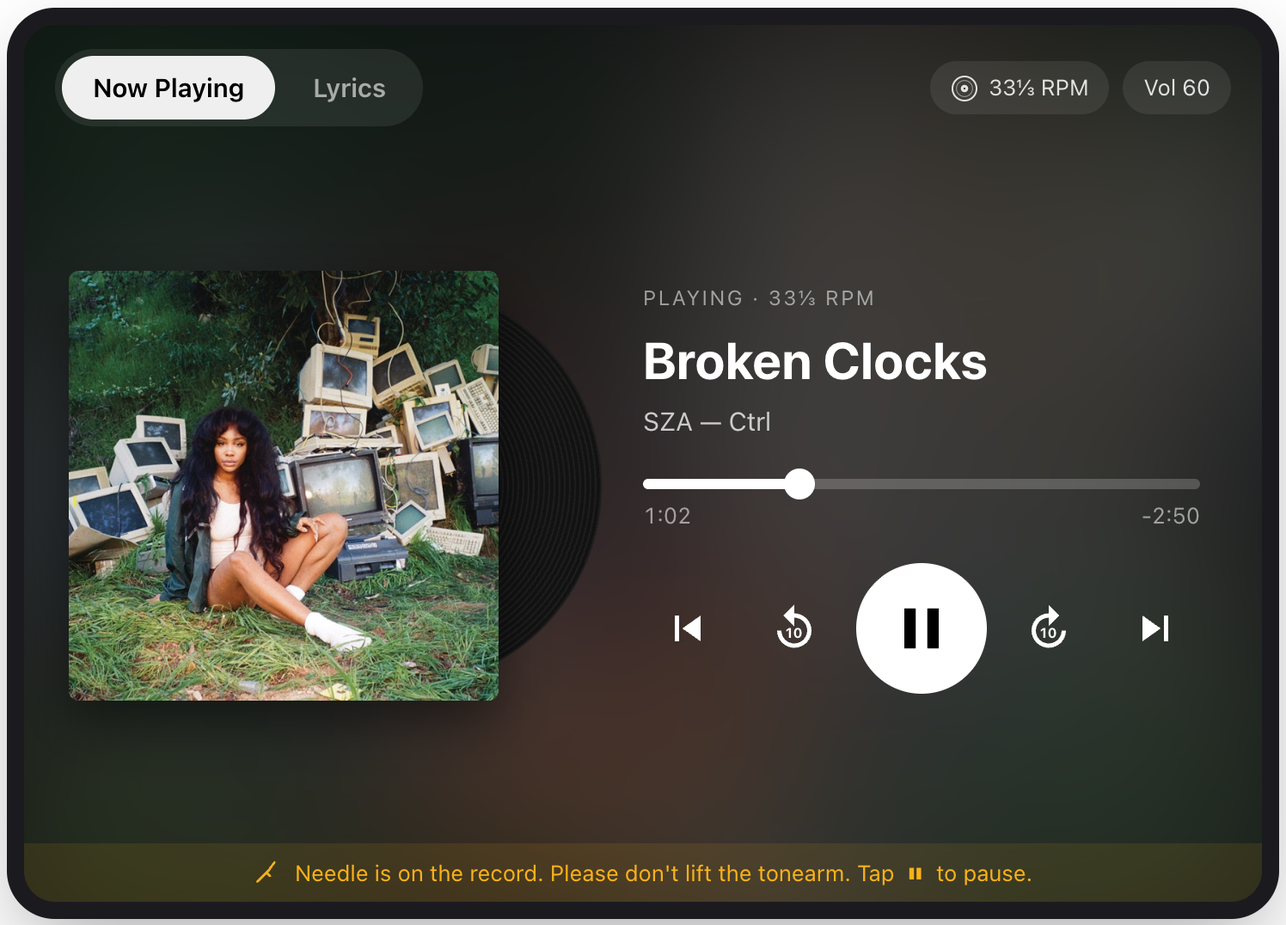
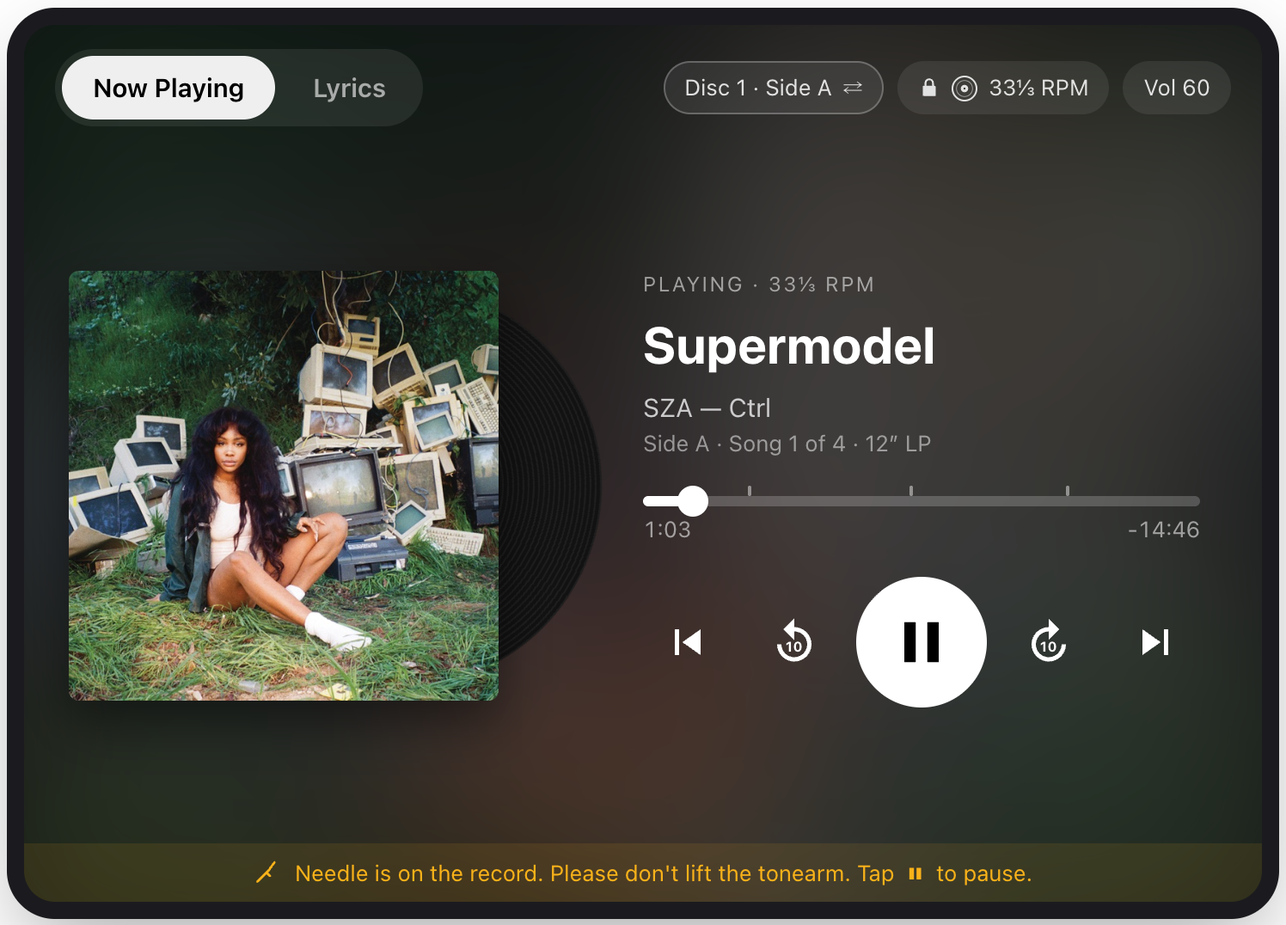
Update README and index files; add images for Smart Vinyl Player project

diff --git a/smart-vinyl-player/index.md b/smart-vinyl-player/index.md
@@ -1,7 +1,3 @@
----
-title: Smart Vinyl Player
----
-
 # Smart Vinyl Player
 
 **Sai Porumamilla** · User Interface I, Project 1
@@ -14,7 +10,7 @@ title: Smart Vinyl Player
 
 A record player that keeps everything people love about vinyl, the physical record, the platter and the needle, while adding a digital display and sensors. A touchscreen faces forward on the front of the player, below the turntable and between the left and right speakers. Two physical knobs sit on top at the front right corner: one for volume and one for the playback mode (33⅓ RPM, 45 RPM or Bluetooth).
 
-Sensors inside the player watch its own health: belt and platter speed, stylus cleanliness, air quality, vibration, audio clipping and tonearm level. They also recognize which song is playing. A companion phone app shows that health and turns the detected plays into a library and listening stats.
+Sensors inside the player watch its own health: belt and platter speed, stylus cleanliness, air quality, vibration, audio clipping and tonearm level. They also recognize which song is playing and the size of the disc on the platter. A companion phone app shows that health, turns the detected plays into a library and listening stats, and works as a remote for the player.
 
 The mock-up has two interfaces, chosen from one master page:
 
@@ -36,7 +32,7 @@ Both interfaces are fixed at a **1.41 : 1** ratio, the ISO A-series paper ratio 
 These are the sensing features the interface assumes. They should be feasible, but how they would be built is out of scope.
 
 | Sensor | What it detects | How the UI uses it |
-|---|---|---|
+| --- | --- | --- |
 | Platter speed sensor | Whether the platter is turning and how far it is from 33⅓ or 45 RPM | Belt & platter speed card in the app |
 | Stylus sensor | Debris build-up, tracked as hours played since the last cleaning | Stylus cleanliness card and stylus lifetime bar |
 | Air quality sensor (PM2.5) on the side of the player | Whether the room is dusty | Air quality card, with a tip to keep the lid closed |
@@ -45,29 +41,58 @@ These are the sensing features the interface assumes. They should be feasible, b
 | Tonearm level sensor | Whether the arm is parallel to the record | Tonearm level card |
 | Tonearm proximity sensor | A hand reaching for the arm while the needle is down | Hands-off warning on the display |
 | Song recognition | Which song and record are playing | Now Playing info and the app's listening history |
-| Knob encoders | Volume and mode knob positions | Volume meter and mode overlays on the display |
+| Knob encoders | Volume and mode knob positions. The volume knob is an endless encoder with an LED ring, so the phone can change the volume too | Volume meter and mode overlays on the display |
+| Disc size sensor on the platter | Whether the record is a 12″ LP or a 7″ single, which tells the speed it needs (33⅓ or 45 RPM) | The disc size on Now Playing, and the wrong-speed warning |
+| Speed knob lock | A latch that stops the mode knob from turning while the needle is on the record | The lock signifier and the "Speed locked" message |
 
 ### User needs and design requirements
 
-> **TODO (Sai):** Check these against your interviews and add or adjust as needed.
+These come from the three interviews below (P1–P3 = participants 1–3). The **Built** column shows whether the mock-up already meets each requirement.
 
-| User need | Design requirement |
-|---|---|
-| Control playback without handling the tonearm and risking the record | The display offers play/pause, previous/next and scrubbing, and warns the user away from the arm while the needle is down |
-| Know what is playing from across the room | When left alone, the display fades to large album art with the song, artist and album |
-| Sing along | The display shows time-synced lyrics |
-| Get clear feedback when turning a physical knob | The display shows the new volume on an arched meter, or the new mode's name and symbol |
-| Know when the player needs care before sound quality suffers | The app gives one overall health rating plus a card per sensor, with a fix for anything Fair or Poor |
-| Show off the collection, including special editions | The app has a collection view with vinyl colors and a filter for special editions |
-| See listening habits | The app shows a day-by-hour heatmap, top artists and totals, built from automatically detected plays |
+| User need | Heard from | Design requirement | Built |
+| --- | --- | --- | --- |
+| Pause, stop or skip without lifting the needle by hand and risking a scratch | P1, P2, P3 | The display offers play/pause and previous/next, and warns the user away from the tonearm while the needle is down | Yes |
+| Find a specific song without placing the needle by hand | P2, P3 | Next/previous, scrubbing and tapping a lyric all cue the automatic tonearm, which shows the arm moving to the matching groove | Yes |
+| Know how far into the side the record is without opening the lid | P1, P2, P3 | The display shows "Side A · Song 2 of 4" and a scrub bar spanning the side, with marks between songs | Yes |
+| See what's playing from across the room | P1, P2, P3 | A front-facing screen that, when left alone, fades to large album art with the song, artist and album | Yes |
+| Follow along with lyrics, as on Spotify or Apple Music | P1, P2, P3 | The display shows time-synced lyrics, and tapping a line skips to it | Yes, line by line. Word-by-word timing is future work |
+| Know when to flip the record or change discs | P3 | When a side ends, the display says whether to flip or swap discs, lists every side with its songs and length, and offers other albums | Yes |
+| Get feedback when turning a knob; today they can only tell by ear, and one participant's volume switch faces the wall | P1, P2, P3 | The display shows the new volume on an arched meter, or the new mode's name and symbol | Yes |
+| Avoid playing a record at the wrong speed | P3 | The speed knob locks while a record plays. The player senses the disc's size, and won't drop the needle if the knob doesn't match | Yes |
+| Notice problems before they're visible or audible; today they look for a crooked needle or a platter that won't spin, then search Reddit or Google | P1, P2, P3 | Sensors feed one overall health rating plus a card per sensor, with a specific fix for anything Fair or Poor | Yes |
+| Be alerted where they'll see it; P1 wants it on the player, P2 and P3 on their phone | P1, P2, P3 | Send alerts to both. Side-end prompts already appear on both; health alerts are only in the app so far | Partly |
+| Show off the collection and the records they're proud of | P2, P3 | A collection view with vinyl colors, a record count and a filter for special editions | Yes |
+| See the next song while one is playing | P2 | The app's Now Playing sheet shows what's up next, or that the side is about to end | Yes |
+| See Wrapped-style listening stats for records | P1, P2, P3 | Listening hours, songs spun, a day-by-hour heatmap and top artists, built from automatically detected plays | Yes |
+| See most-played records by month, and skipped songs | P1, P3 | Monthly top-records view and skip tracking | Not yet |
+| Share stats and play time with friends | P2 | Share a stats card from the app | Not yet |
 
 ### Interviews
 
-> **TODO (Sai):** The 3 interviews: your questions, who you talked to (no identifying details), what you learned, and how it changed the design. Add photos or video of them using a record player if you have them.
+I interviewed three people outside the class, for about 15–20 minutes each. The questions covered five themes: how they listen to music, how they use a record player, controls and feedback, care and maintenance, and their collection and listening stats. At the end I described my design concepts and asked for reactions, so the concepts couldn't bias their earlier answers. All participants are anonymized. [Full interview notes](https://github.com/sai-porumamilla/UI-Project_1/blob/main/interview.md).
+
+| Participant | Experience with record players |
+| --- | --- |
+| **P1** | Has never owned one. Drawn to the look and to collecting favorite artists, put off by the cost. Uses Spotify and plays orchestral music |
+| **P2** | Has used one once, at their brother's. Listens with headphones or in the car on Apple Music |
+| **P3** | Owner with a 78-album collection and a Sony automatic turntable connected to a soundbar |
+
+**What I learned, and how it shaped the design:**
+
+- **Everyone stops or skips by lifting the needle by hand.** P1 worries about scratches because records are expensive. P2 found it hard to place the needle on a specific song. P3 drags the needle past songs when desperate. This confirmed the core idea: play/pause and skip on the screen, the hands-off tonearm warning, and an automatic tonearm that moves to the right groove when you scrub, skip or tap a lyric.
+- **Nobody can easily tell where they are on a side.** P1 relies on knowing the song order, P2 reads it from the groove, and P3 has to open the lid. This led to "Side A · Song 2 of 4" and a scrub bar that spans the side, with marks between songs.
+- **Knobs give no feedback except sound.** All three tell whether volume or speed changed by listening, and P3's volume switch faces the wall. This supports the on-screen volume meter and mode overlay. P3 also pointed out that nothing stops you from playing a 33⅓ record at 45. That led to the speed lock and disc-size detection described under *Physical knobs*.
+- **They expect the screen on the front.** P1 said on the rim, facing forward into the room; P2 said the bottom half, angled outward; and P3 said toward the front. This matches the front-facing display between the speakers.
+- **Everyone already uses synced lyrics.** P2 described Apple Music's word-for-word sync, and the one change P3 would make to record players is being able to skip by tapping the lyrics. Both are in the design: tapping a line seeks to it, and word-level timing is future work.
+- **Problems are noticed late.** Participants only notice trouble from visible signs (a crooked needle, a platter that doesn't spin) or skipping, then search Reddit or Google. The health screen's per-sensor fixes answer this directly.
+- **They disagree on where alerts belong.** P1 doesn't want another app; P2 and P3 prefer their phone because the player's screen is small. The design sends side-end prompts to both, and extending this to health alerts is next.
+- **Stats matter to everyone.** All three enjoy Wrapped-style stats and want them for records: minutes, top artists and albums, totals (P2, P3), most-played record each month and skipped songs (P1), and sharing with friends (P2). The Insights tab covers the basics; the rest is in future work.
+- **Reactions to the concepts were positive.** P3 called them "pretty good," P1 asked for a small decibel readout, and P2 wanted to share stats with friends.
 
 ### Sketches
 
 > **TODO (Sai):** Add images and short captions for:
+>
 > - 10-plus-10 sketches for 3 design challenges
 > - The vanilla sketch of the interface
 > - Storyboard
@@ -87,20 +112,39 @@ A switch at the top chooses **Player display**, **Companion app** or **Side by s
 
 ![Side-by-side view, with the testing panel underneath](images/side-by-side.png)
 
-**Testing UI controls**
+#### Testing UI controls
 
 | Control | What it simulates |
-|---|---|
+| --- | --- |
 | Volume knob slider | Turning the physical volume knob |
 | Mode knob (33⅓ RPM / 45 RPM / Bluetooth) | Turning the physical mode knob |
 | Reach for tonearm | A hand near the tonearm while a song plays |
-| Owner profile (Maya, Jordan, Sam, Pat) | Loads a different owner's sensor readings, collection and listening history into the app |
+| Skip to end of side | Jumps to the last few seconds of the side, to demo the flip / swap-disc prompt without waiting |
+| Owner profile (Audiophile collector, College dorm, First turntable, Inherited player) | Loads a different owner's sensor readings, collection and listening history into the app |
 
 ### Player display
 
-**Now Playing.** Play/pause, previous/next, ±10-second skips and a scrub bar. A record peeks out behind the album art and spins at the selected speed, so 45 RPM visibly spins faster than 33⅓.
+**Now Playing.** Play/pause, previous/next, ±10-second skips and a scrub bar, with the song, artist, album and where you are on the record (for example "Side A · Song 1 of 4 · 12″ LP"). A record peeks out behind the album art and spins at the selected speed, so 45 RPM visibly spins faster than 33⅓.
 
 ![Now Playing on the player display](images/display-playback.png)
+
+**Scrubbing moves the needle.** On a turntable, a point in a song is a physical place on the record, so seeking works the way a real automatic tonearm would. Dragging the scrub bar, tapping ±10 seconds or tapping a lyric lifts the needle, swings the arm to the groove for that moment and lowers it again, then playback resumes. While this happens, a top-down view of the platter replaces the album art. The arm's shadow moves away from it as it lifts, a ring in the album's color marks the groove where it will land, and the target time is shown. Pausing mid-move leaves the arm up. In Bluetooth mode there's no needle, so seeking is instant.
+
+![Cueing the tonearm while scrubbing](images/display-cueing.png)
+
+**Sides, flipping and swapping records.** The display treats a record the way it physically is: as sides. The scrub bar spans only the side that's face up, with small marks at the gaps between songs, and a chip in the header shows the current disc and side (for example "Disc 1 · Side A"). When the needle reaches the end of a side, it returns to rest and the display tells you what to do next:
+
+- **Flip the record:** the next side is on the same disc, like Side A to Side B.
+- **Swap in Disc 2:** the next side is on the other disc of a double album, like Side B to Side C.
+- **Start again or put on a new album:** after the last side.
+
+Every side of the record and every other album is offered, with the suggested next step highlighted. Choosing one shows the physical step (the disc flipping over, or one disc going back in its sleeve and the next coming in), then "✓ Detected" with the new side and artwork, and then the needle drops and playback starts. The phone shows the same choices at the same time (see *End of a side, on the phone*). Tapping the side chip opens the same choices at any point. In Bluetooth mode, music streams straight through from one side to the next.
+
+The sample records are SZA's *Ctrl* (two discs, Sides A–D) and Steve Lacy's *The Lo-Fis* (one disc, Sides A–B).
+
+| Side over | Flipping the record | New album detected |
+| --- | --- | --- |
+| ![Side picker](images/display-side-over.png) | ![Flip animation](images/display-flip.png) | ![New album detected](images/display-new-album.png) |
 
 **Idle mode.** If nobody touches the Now Playing screen for 8 seconds, it fades to large album art with the song, artist and album names, readable from across the room. One tap brings the controls back.
 
@@ -111,51 +155,83 @@ A switch at the top chooses **Player display**, **Companion app** or **Side by s
 ![Synced lyrics](images/display-lyrics.png)
 
 **Hands off the tonearm.** Lifting the needle mid-song can scratch the record, so the display steers people to a safer action:
+
 - **Signifier:** while the needle is down, a strip along the bottom says not to lift the arm and to tap pause instead.
 - **Feedback:** if the proximity sensor detects a hand near the arm, a full-screen warning appears with a large, pulsing pause button. Pausing dismisses it.
 
 ![Tonearm warning](images/display-needle-warning.png)
 
 **Physical knobs.** The display reacts whenever either knob turns:
+
 - **Volume knob:** an arched panel meter with the new value. The arc turns orange above 85.
 - **Mode knob:** the mode's name and symbol. 33⅓ RPM is an LP disc, 45 RPM is a disc with the wide single-record centre, and Bluetooth uses the standard Bluetooth symbol.
 
 | Volume knob | Mode knob |
-|---|---|
+| --- | --- |
 | ![Volume meter](images/display-volume.png) | ![Mode overlay](images/display-mode.png) |
+
+**Speed lock (from interview feedback).** P3 pointed out that you can switch a record to the wrong speed, so the player now guards against it:
+
+- **Locked while playing.** While the needle is on the record, the mode knob locks. The speed chip shows a lock, and the testing panel shows the other positions locked. Turning the knob anyway brings up "Speed locked" with a Pause button, because pausing is what unlocks it.
+- **Speed from disc size.** A sensor on the platter tells a 12″ LP (33⅓ RPM) from a 7″ single (45 RPM). Now Playing shows the size, for example "12″ LP", and the "Detected" screen says which speed the record plays at.
+- **Wrong speed blocked.** If the record is paused and the knob is turned to a speed that doesn't match the disc, the speed chip turns amber and reads "Set speed to 33⅓ RPM". Pressing Play won't drop the needle. Instead, the display explains that this is a 12″ LP and which way to turn the knob. The same check runs after a new record is put on.
+
+| Locked while playing | Wrong speed for this disc | What the speed chip shows |
+| --- | --- | --- |
+| ![Speed locked](images/display-speed-locked.png) | ![Wrong speed](images/display-wrong-speed.png) | ![Amber speed chip](images/display-wrong-speed-chip.png) |
 
 ### Companion app
 
-A mini player at the top controls the same player as the touchscreen. The header shows the connection and the current knob settings.
+A mini player at the top controls the same player as the touchscreen, with previous, play/pause and next. The header shows the connection and the current knob settings.
+
+**Now Playing sheet.** Tapping the mini player's artwork or title slides up a full Now Playing view. It shows large artwork, the song, artist and album, the side and song number, the disc size and speed, and a scrubber for the current song. It also has previous, play/pause and next, the same volume controls, and what's up next. On the last song of a side, "up next" becomes a reminder to flip the record or swap discs, which answers P2's wish to see the next song while one is playing. The chevron at the top, or Escape, closes it.
+
+![Now Playing sheet in the app](images/phone-now-playing.png)
+
+**Scrubbing from the phone.** Dragging the song scrubber in the sheet works like the one on the display: it moves the real tonearm. When you press, the needle lifts; as you drag, the arm follows; when you let go, it drops at that point in the song. The phone shows "Moving the needle…" while the player's screen shows the arm swinging to the new groove. In Bluetooth mode the scrubber seeks instantly.
+
+![Scrubbing on the phone moves the player's tonearm](images/phone-scrub-sync.png)
+
+**End of a side, on the phone.** When the needle reaches the end of a side, the phone shows the same choices as the player's screen. The heading says what to do ("Side A is over. Flip the record to Side B"), every side is listed as Flip, Swap disc or Play again with the next one highlighted, and other albums are offered. Choosing on the phone does exactly what choosing on the player does. Both screens walk through the step (the disc flipping over, or one disc going back in its sleeve and the next coming in), both show "✓ Detected", and the needle drops. "Not now" closes the choices on both screens. The phone then keeps a tappable "Side A is over" notice, and the side chip on the Now Playing sheet opens the same choices at any time.
+
+| Side over on the phone | New album detected on both |
+| --- | --- |
+| ![Side picker on the phone](images/phone-side-over.png) | ![Detected on both screens](images/both-new-album-detected.png) |
+
+**Remote volume.** Below the mini player, a volume row with down/up buttons and a slider sets the speaker volume from anywhere in the room. It's the same volume as the physical knob. The knob is an endless rotary encoder with an LED ring, so it never disagrees with a change made from the phone. The player's screen shows the arched volume meter labelled "Set from the companion app", so people near the player know why the sound changed.
+
+| Volume row in the app | What the player shows |
+| --- | --- |
+| ![Phone volume control](images/phone-volume.png) | ![Remote volume on the display](images/display-volume-remote.png) |
 
 **Health.** One headline rating out of four tiers (**Excellent / Good / Fair / Poor**), computed from six sensors. Each sensor card shows its reading, its own tier and a four-segment bar. Anything Fair or Poor also shows how to fix it. The overall rating is the average of the sensors, but a single Poor sensor caps it at Fair so a serious problem can't hide behind good readings. Every tier pairs its color with a symbol and a label, so the rating doesn't depend on color alone.
 
-| Excellent (Maya) | Poor (Pat) | Sensor cards |
-|---|---|---|
+| Excellent (Audiophile collector) | Poor (Inherited player) | Sensor cards |
+| --- | --- | --- |
 | ![Excellent health](images/phone-health-excellent.png) | ![Poor health](images/phone-health-poor.png) | ![Sensor detail](images/phone-health-sensors.png) |
 
 **Library.** The collection shows each record as a disc in its actual vinyl color, with special and limited editions starred and a filter to show only those. Insights shows hours listened, songs spun, the day streak, songs the player detected this session, a day-by-hour heatmap (hover a cell for the count) and top artists.
 
 | Collection | Insights | Heatmap & top artists |
-|---|---|---|
+| --- | --- | --- |
 | ![Collection](images/phone-collection.png) | ![Insights](images/phone-insights.png) | ![Heatmap](images/phone-insights-heatmap.png) |
 
 ### Why a companion app (Option 2)
 
 The touchscreen is for the moment of listening: it is big, glanceable and right next to the record. Health and history are different jobs. You check them occasionally, often when you're not near the player, and they need more room than a playback screen should give up. The phone handles those, and also works as a remote.
 
-The two stay connected in both directions. The phone's play/pause and next buttons drive the player. The player's current song, playing state, knob settings and detected plays all show up on the phone. The **Side by side** view makes this visible.
+The two stay connected in both directions. The phone's play/pause, previous/next, song scrubber, volume controls and side/record choices drive the player. The player's current song, playing state, knob settings and detected plays all show up on the phone. The **Side by side** view makes this visible.
 
 ### Why the sensor data matters (Option 3)
 
 Most turntable problems are invisible until they audibly damage the sound or the records: a slipping belt, a dirty stylus, a tilted tonearm. The health screen turns them into one rating with specific fixes, so owners can act before it gets that far. The four owner profiles show the range:
 
 | Profile | Situation | Health |
-|---|---|---|
-| Maya | Audiophile collector with a dedicated listening room | Excellent |
-| Sam | First turntable, weekend afternoon listener | Good |
-| Jordan | College dorm, with the player sharing a desk with a subwoofer | Fair: dusty air, high vibration, dirty stylus |
-| Pat | Inherited player set up in a garage workshop | Poor: slipping belt, worn stylus, tilted arm, clipping |
+| --- | --- | --- |
+| Audiophile collector | Dedicated listening room | Excellent |
+| First turntable | Weekend afternoon listener | Good |
+| College dorm | The player shares a desk with a subwoofer | Fair: dusty air, high vibration, dirty stylus |
+| Inherited player | Set up in a garage workshop | Poor: slipping belt, worn stylus, tilted arm, clipping |
 
 The library and listening stats come from the same sensing. Because the player recognizes what is playing, collectors get stats.fm-style insights for physical records without logging anything.
 
@@ -164,12 +240,17 @@ The library and listening stats come from the same sensing. Because the player r
 ## Implementation
 
 - **Svelte 5 + JavaScript, built with Vite.** Components use Svelte 5's runes (`$state`, `$derived`, `$effect`).
-- **One shared player state.** `player.svelte.js` holds a single audio element and one reactive state object: track, playing, time, volume, mode, owner profile and detected plays. The touchscreen, the phone and the testing panel all read and change this one object, which is what keeps the two devices in sync.
+- **One shared player state.** `player.svelte.js` holds a single audio element and one reactive state object: the record, side and song on the platter, playing, time, volume, mode, the tonearm, the side-change prompt, the owner profile and detected plays. The touchscreen, the phone and the testing panel all read and change this one object, which is what keeps the two devices in sync. For example, scrubbing on the phone moves the same tonearm the display draws.
+- **Tonearm cueing.** Every seek in 33⅓/45 mode runs a small sequence: lift, move, lower. The audio pauses during the move, but the player remembers whether the user wants music, so the play/pause button never flickers. A counter cancels a move that's still running when a new seek arrives, which keeps rapid ±10 taps and scrubbing smooth.
+- **Speed lock.** Each record stores its disc size. The player refuses speed changes while the needle is down, and refuses to drop the needle at a speed that doesn't match the disc.
+- **One picker, two screens.** The end-of-side wording (`sideChange.js`) and the record graphic with its flip and swap animations (`Disc.svelte`) are shared by the display and the phone, so the two screens always say and show the same thing.
 - **Physical inputs as events.** A knob turn or a hand near the tonearm sets a fresh event object in that state. The display watches for it and shows a timed overlay.
-- **Lyrics.** Fetched at runtime from LRCLIB's free API and parsed from LRC format (`[mm:ss.xx] line`). LRC only times whole lines, so highlighting is line by line. A per-song offset can re-sync lyrics if they drift from the audio.
+- **Records and sides.** Each album is a single audio file. Its side and song timestamps, entered from the album's track list, are expanded into sides with start and end times and a disc number. Playback, scrubbing and the tonearm all work within the current side. When a side ends, a short sequence handles the change: you place the new side, the player detects it, and the needle drops.
+- **Lyrics.** Fetched at runtime from LRCLIB's free API, matched to each song by title and length, and parsed from LRC format (`[mm:ss.xx] line`). The times are offset by where the song starts in the album file. LRC only times whole lines, so highlighting is line by line. A per-song offset can re-sync lyrics if they drift from the audio.
 - **Data.** The four owner profiles, sensor thresholds and tier rule live in `scenarios.js`. Each heatmap is generated from that owner's peak listening hours.
+- **Accent color from the artwork.** Each record stores its cover's dominant color, measured from the artwork: green for *Ctrl*, warm clay for *The Lo-Fis*. Buttons, highlights and the display's glow all take their color from it. The hue follows the artwork, but lightness is fixed separately for light and dark mode (CSS `oklch(from …)`), so button text stays readable (at least 4.5:1 contrast). When a new record goes on, the whole page fades to its color.
 - **Charts.** All hand-built with SVG and CSS, with no chart library: the volume meter, the health arc, the sensor bars, the heatmap and the top-artist bars. The health tiers use a fixed status palette, always paired with a symbol and a label.
-- **Checks and hosting.** A small Node test (`npm test`) covers the lyric parsing and the health-tier logic. A GitHub Actions workflow tests, builds and deploys the app to GitHub Pages on every push.
+- **Checks and hosting.** A small Node test (`npm test`) covers lyric parsing, the health-tier logic, how sides and discs are built from the track list, and disc size to speed. Every feature was also checked by driving the app in a real browser. A GitHub Actions workflow tests, builds and deploys the app to GitHub Pages on every push.
 
 ---
 
@@ -180,6 +261,15 @@ The library and listening stats come from the same sensing. Because the player r
 - **Health over time.** Readings are a snapshot per owner profile. A history view could show the stylus wearing and dust building up week by week, with reminders.
 - **Phone → display sharing.** In Bluetooth mode, the phone could send its own album art and lyrics to the player's screen.
 - **Offline fallback.** Lyrics and album art load from the internet. Caching them would keep the display working without a connection.
+- **A 7″ single to demo 45 RPM.** Both sample records are 12″ LPs, so the 45 RPM path (a 7″ single detected and played at 45) is only covered by the unit test.
+
+From the interviews:
+
+- **Health alerts on the player too (P1).** Show a short alert on the display as well as in the app, for people who don't want another app.
+- **Monthly and skip stats (P1, P3).** Most-played records each month, and which songs get skipped.
+- **Share stats with friends (P2).** A shareable stats card, similar to Spotify Wrapped.
+- **Decibel readout (P1).** A small live level meter below the Now Playing controls.
+- **Inner artwork (P1).** Scan a record's inner sleeve and show its artwork on the display.
 
 > **TODO (Sai):** Add anything you attempted but didn't finish, with screenshots.
 
@@ -189,15 +279,29 @@ The library and listening stats come from the same sensing. Because the player r
 
 > **TODO (Sai):** Describe how you used AI, in your own words.
 
-For reference, here is what Claude Code (Anthropic's AI coding assistant) built in this project:
-- The project's `CLAUDE.md` guidance file, from your spec and `REQUIREMENTS.md`
-- Both device interfaces, the master page and the testing panel, from your design spec
-- The four mock owner profiles
-- Finding the LRCLIB lyrics source
-- The GitHub Pages setup
-- The screenshots on this page and a first draft of this write-up
+For reference, here is what Claude Code (Anthropic's AI coding assistant) did in this project:
 
-The design decisions came from your spec: the 1.41 ratio, the two display pages, the tonearm warning, the knob behavior, the six sensors with four health tiers, and the library and insights.
+- **Code:** both device interfaces, the master page and the testing panel, built from my design spec, plus each feature I asked for after that:
+  - tonearm cueing for scrubbing
+  - album sides with flip and swap prompts on both screens
+  - the speed lock with disc-size detection
+  - accent colors taken from the artwork
+  - the phone's previous button, Now Playing sheet, scrubber and remote volume
+- **Data and assets:**
+  - the four mock owner profiles
+  - finding the LRCLIB lyrics source and matching all 29 songs
+  - re-encoding the album audio to fit GitHub's file limits
+- **Checking:** a small automated test, and driving each feature in a real browser to catch bugs
+- **Setup:** the project's `CLAUDE.md` guidance file and the GitHub Pages deployment
+- **Docs:** tidying my interview notes into anonymized, lint-clean Markdown, the screenshots on this page, and a first draft of this write-up from my notes and the code
+
+The design decisions were mine:
+
+- the 1.41 ratio and the two-screen setup
+- the display pages, the tonearm warning and the knob behavior
+- the six sensors and four health tiers, and the library and insights
+- flipping and swapping records, and scrubbing that moves the needle
+- the changes that came from my interviews
 
 ---
 

diff --git a/README.md b/README.md
@@ -1,4 +1,5 @@
 # sai-porumamilla.github.io
+
 Portfolio Website for User Interface I course
 
 ## Projects
